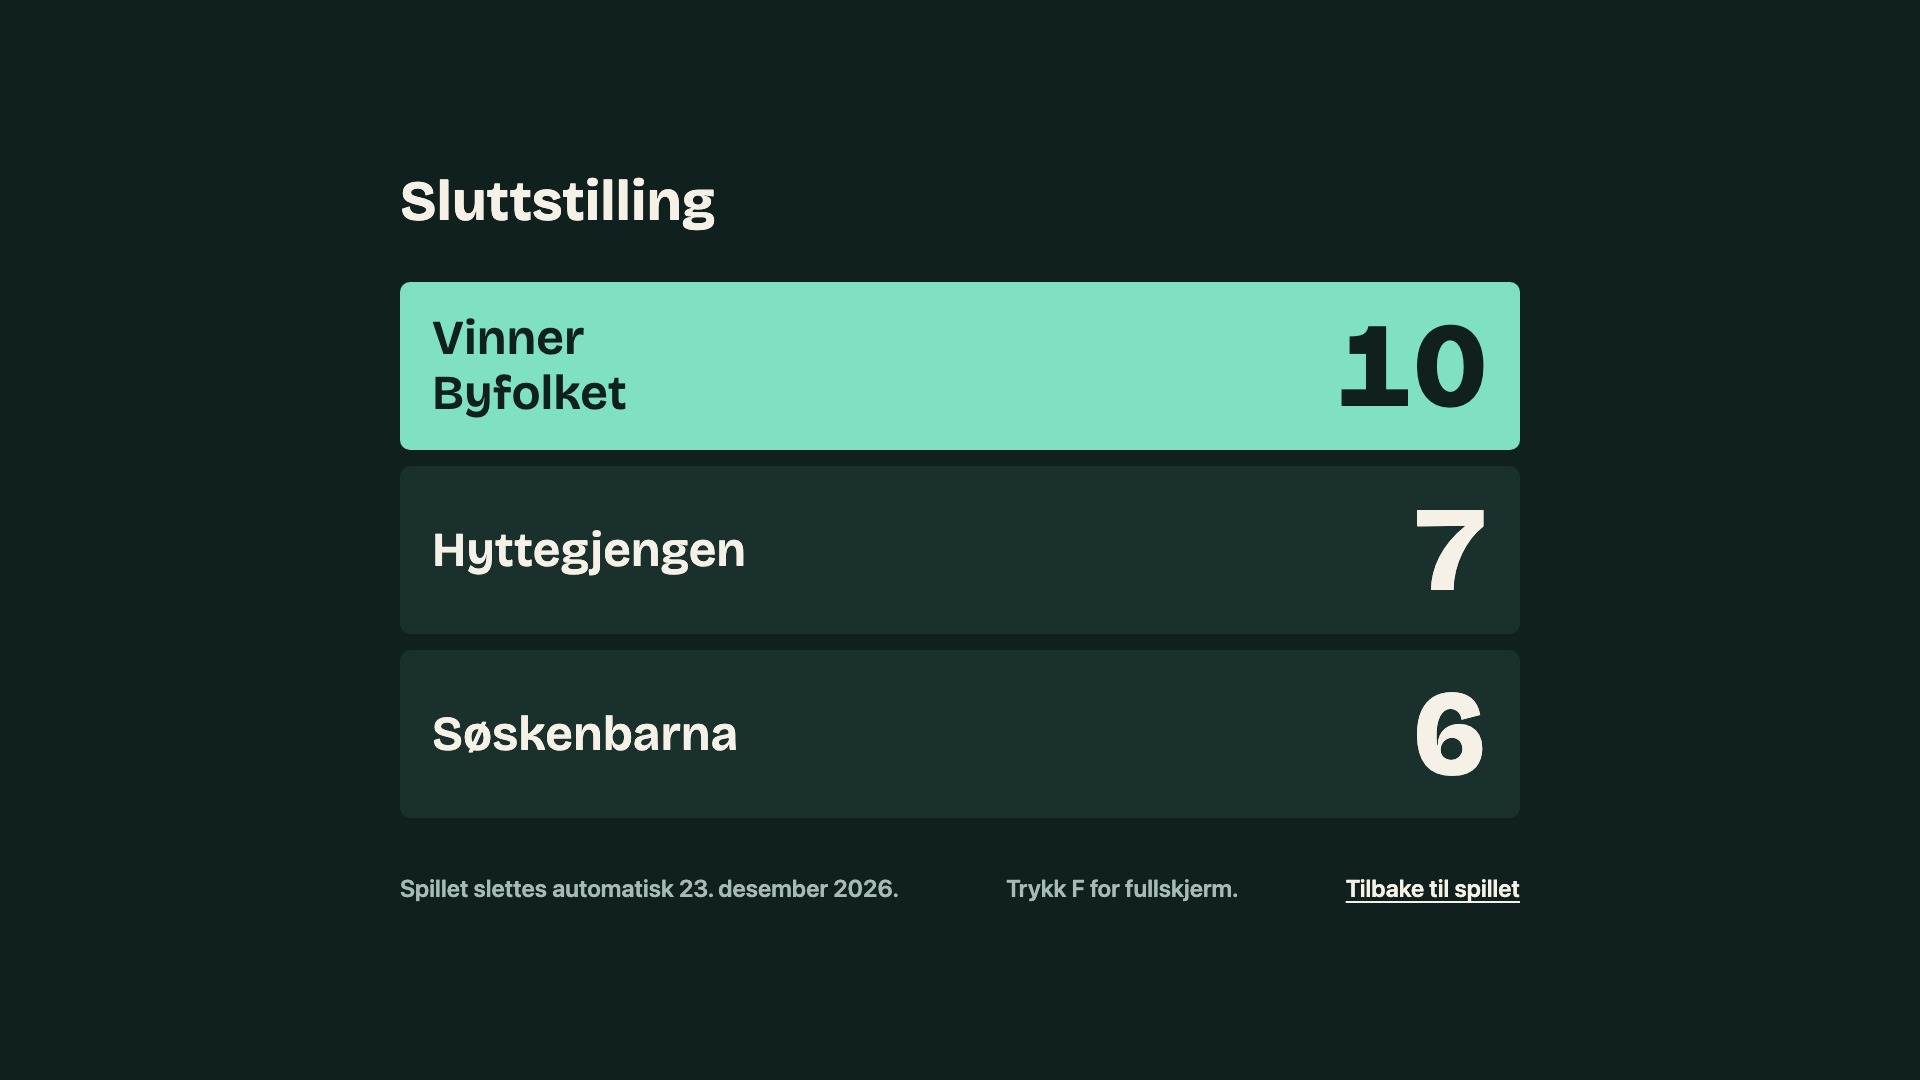
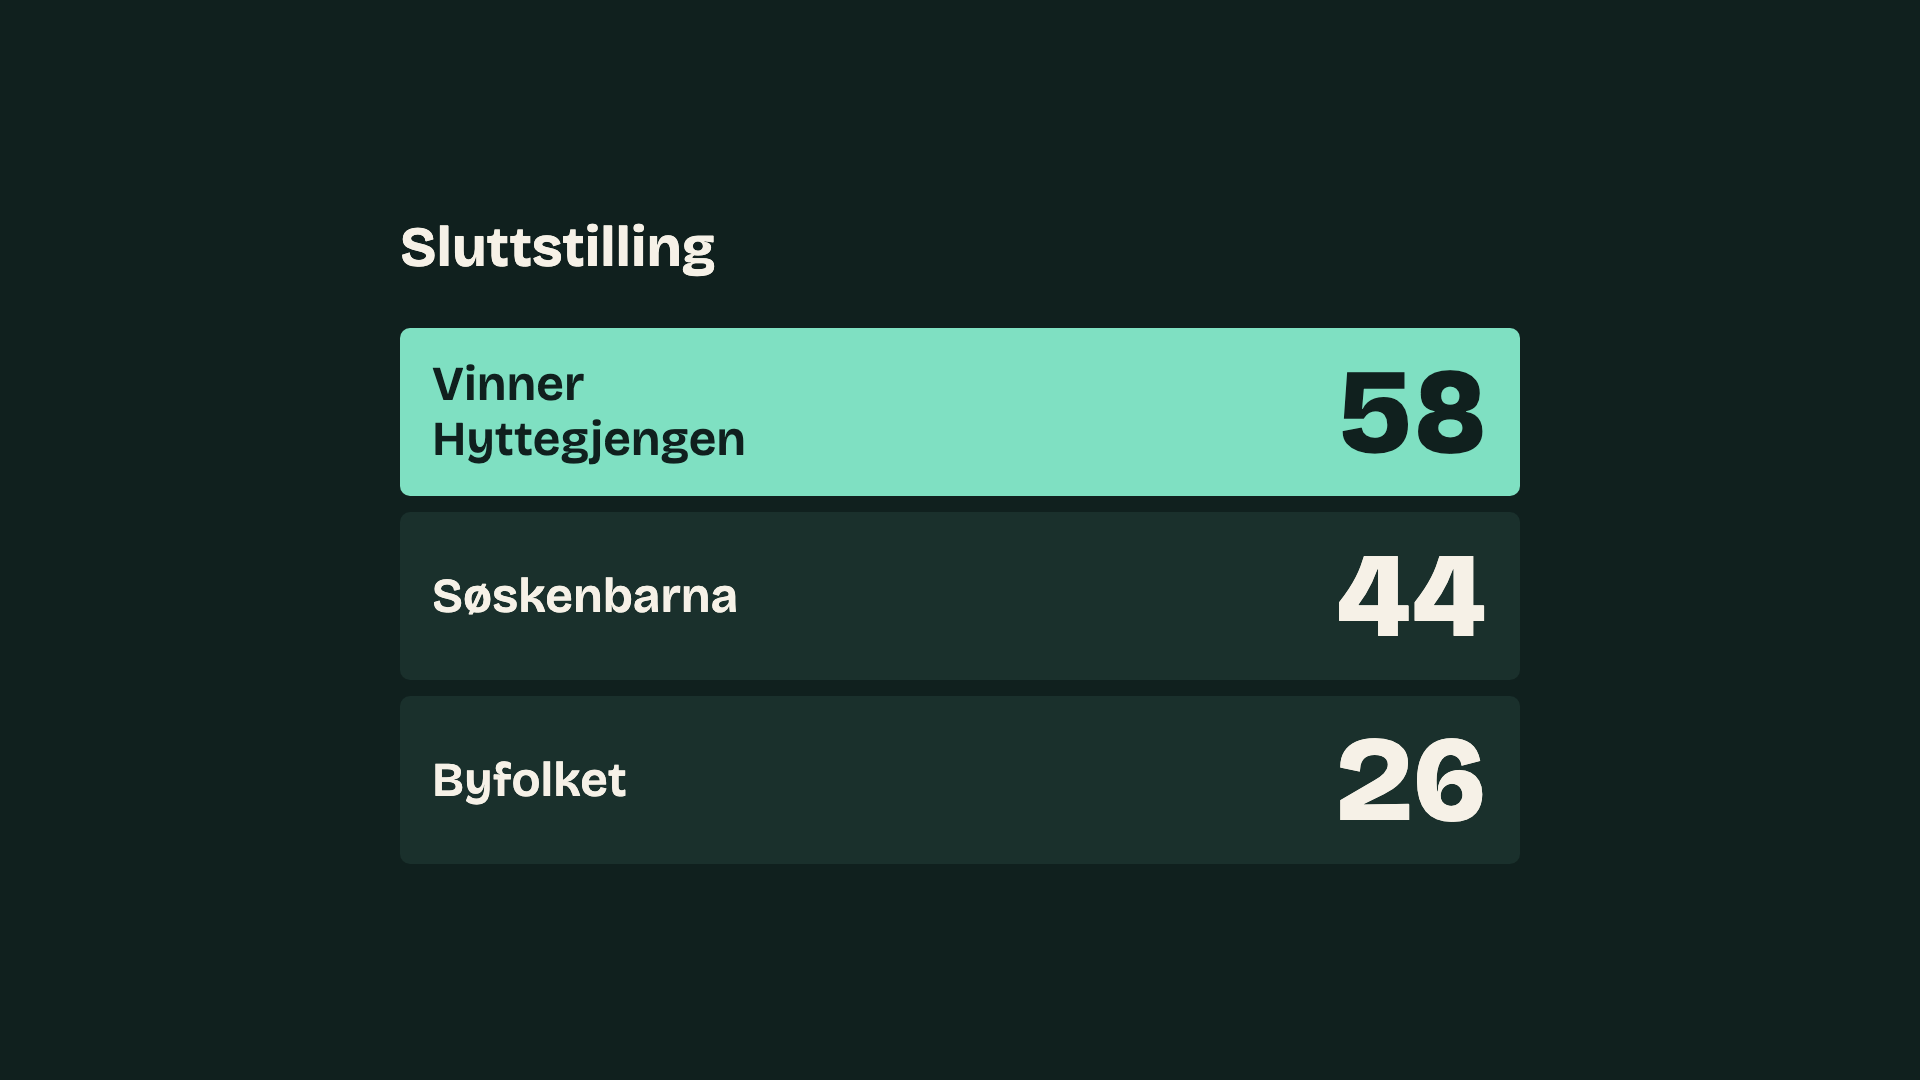
Beskriv spill med to vinduer i README, med nye skjermbilder
README sier nå rett ut at et spill trenger to vinduer eller to enheter,
og beskriver flyten fra «Start spillet» via lagoppsettet til spillsiden,
vertsvisningen med fasit og TV-visningen. TV-visningen viser kilden til
spørsmålssettet.

De tre skjermbildene av spillet er tatt på nytt i demomodus med et
oppdiktet spill fra et ferdig spørsmålssett: TV-visningen med to
avslørte svar, vertsvisningen med hurtigtastene åpne, og sluttstillingen
på TV-en uten den fjernede bunnlinja.

diff --git a/README.md b/README.md
@@ -7,26 +7,31 @@ Her ligger appen, og dokumentasjon av hvordan vi bygde, testet og kvalitetssikre
 
 **Toppsvar** er et Family Feud-aktig festspill. Verten lager spørsmål om sin egen gjeng, og
 deltakerne svarer anonymt i fritekst. En språkmodell grupperer like svar til rangerte topplister.
-Verten retter, og gjengen spiller fra én delt skjerm. En vert med to skjermer kan i stedet åpne
-TV-visningen, som bare viser brettet for rommet, og styre spillet fra vertsvisningen med fasit på
-sin egen skjerm. Trinn 2: ferdige spørsmålssett, uten innsamling.
+Verten retter, og gjengen spiller. Spillet trenger to vinduer, ett på PC-en og ett på TV-en,
+eller to enheter: TV-visningen viser bare brettet for rommet, og verten styrer spillet fra
+vertsvisningen med fasit på sin egen skjerm. Trinn 2: ferdige spørsmålssett, uten innsamling.
 
 Pilot: <https://toppsvar.vercel.app>. Lokalt trengs verken nøkkel eller konto, se [Utvikling](#utvikling).
 
 ## Slik ser det ut
 
-Et oppdiktet spill, «Hyttetur 2026». Gjennomgang, låst brett og spill er fra piloten, der dommeren
-grupperte live. Resten er lokalt, uten nøkkel.
+Et oppdiktet spill, «Hyttetur 2026». Gjennomgang, låst brett og lagoppsett er fra piloten, der
+dommeren grupperte live. Spillet på TV-en og i vertsvisningen er tatt lokalt i demomodus, med et
+ferdig spørsmålssett. Resten er lokalt, uten nøkkel.
 
 **Gjennomgangen.** Verten slår sammen, flytter, gir nytt navn og forkaster grupper. Her er to
 valgt. Dommeren hadde alt slått sammen «Ullsokker», «ullsokker» og «ullsokkar».
 
 ![Gjennomgangen med to grupper valgt og valglinja nederst](docs-assets/skjermbilder/gjennomgang-valg.png)
 
-**Spillet på TV-en.** Verten bruker tastaturet: tall avslører plasser, `M` bom, `Z` angre, `T`
-neste lag, `U` avslør uten poeng, `N` neste spørsmål. Lagene ser bare brett og poeng.
+**Spillet på TV-en.** Spillet spilles alltid med to vinduer eller to enheter. «Start spillet»
+åpner lagoppsettet. Når lagene er navngitt, havner verten på spillsiden og åpner «Vertsvisning
+med fasit» på PC-en og «Åpne TV-visning» på TV-en. Bruk TV-en som utvidet skjerm, ikke speilet, ellers ser alle fasiten. I
+vertsvisningen avslører tall plasser, `M` gir bom, `Z` angrer, `T` gir neste lag, `U` avslører
+uten poeng og `N` går til neste spørsmål. `F` i TV-vinduet gir fullskjerm. Lagene ser bare brett
+og poeng.
 
-![Brettet på storskjermen med tre avslørte svar og poengene til tre lag](docs-assets/skjermbilder/spill-brett.png)
+![TV-visningen med to avslørte svar, kilden til spørsmålssettet og poengene til tre lag](docs-assets/skjermbilder/spill-brett.png)
 
 | Deltakeren svarer på mobilen | Verten følger innsamlingen |
 |---|---|
@@ -48,8 +53,8 @@ neste lag, `U` avslør uten poeng, `N` neste spørsmål. Lagene ser bare brett o
 | Forkastede grupper | ![Forkastet-seksjonen med Angre forkasting](docs-assets/skjermbilder/gjennomgang-forkastet.png) |
 | Brettet er låst | ![Spillsiden etter at brettet er låst](docs-assets/skjermbilder/brett-last.png) |
 | Lagene navngis | ![Lagoppsettet med tre lag](docs-assets/skjermbilder/lagoppsett.png) |
-| Hurtigtastene | ![Brettet med oversikten over hurtigtaster åpen](docs-assets/skjermbilder/spill-hurtigtaster.png) |
-| Sluttstillingen | ![Sluttstillingen med vinnerlaget øverst](docs-assets/skjermbilder/sluttstilling.png) |
+| Vertsvisningen med fasit | ![Vertsvisningen med fasiten, lagene og oversikten over hurtigtaster åpen](docs-assets/skjermbilder/spill-hurtigtaster.png) |
+| Sluttstillingen på TV-en | ![Sluttstillingen på TV-visningen med vinnerlaget øverst](docs-assets/skjermbilder/sluttstilling.png) |
 
 </details>
 
@@ -148,7 +153,7 @@ Velg et sett under «Spørsmål» når du lager spillet. Da er brettet klart med
 innsamling og gjennomgang (FR-33, trinn 2). Spørsmålene og tellingene kommer fra
 [ProtoQA](https://github.com/iesl/protoqa-data) av ProtoQA-forfatterne (IESL, UMass Amherst),
 lisensiert under [CC BY 4.0](https://creativecommons.org/licenses/by/4.0/), oversatt og
-tilpasset av oss. Spillskjermen viser kilden.
+tilpasset av oss. TV-visningen viser kilden.
 [Kreditering og endringer](data/protoqa/ATTRIBUTION.md).
 
 <details>
@@ -200,7 +205,7 @@ Per 23. november. Trinn 1 fryses 1. desember.
   ikke kjørt. Det som ikke er ferdig ved frysen, flyttes til trinn 2.
 - **Trinn 2 er startet** før trinn 1 er godkjent, etter gruppens valg. [Ferdige
   spørsmålssett](#ferdige-spørsmålssett) (FR-33) er på plass, og det samme er TV-visning og
-  vertsvisning med fasit (story 8.5). Egen rekkefølge på brettet (FR-22),
+  vertsvisning med fasit (story 8.5), som siden story 8.6 er den eneste måten å spille på. Egen rekkefølge på brettet (FR-22),
   hjelp til gjetninger (FR-28) og strikes og steals (FR-29) gjenstår.
 - **Dommeren mot ProtoQA (SM-2): B-cubed F1 0.6849**, under målet på 0.70. Spørsmål med mange
   ulike svar faller tilbake til én gruppe per svar, og verten slår sammen i gjennomgangen.
